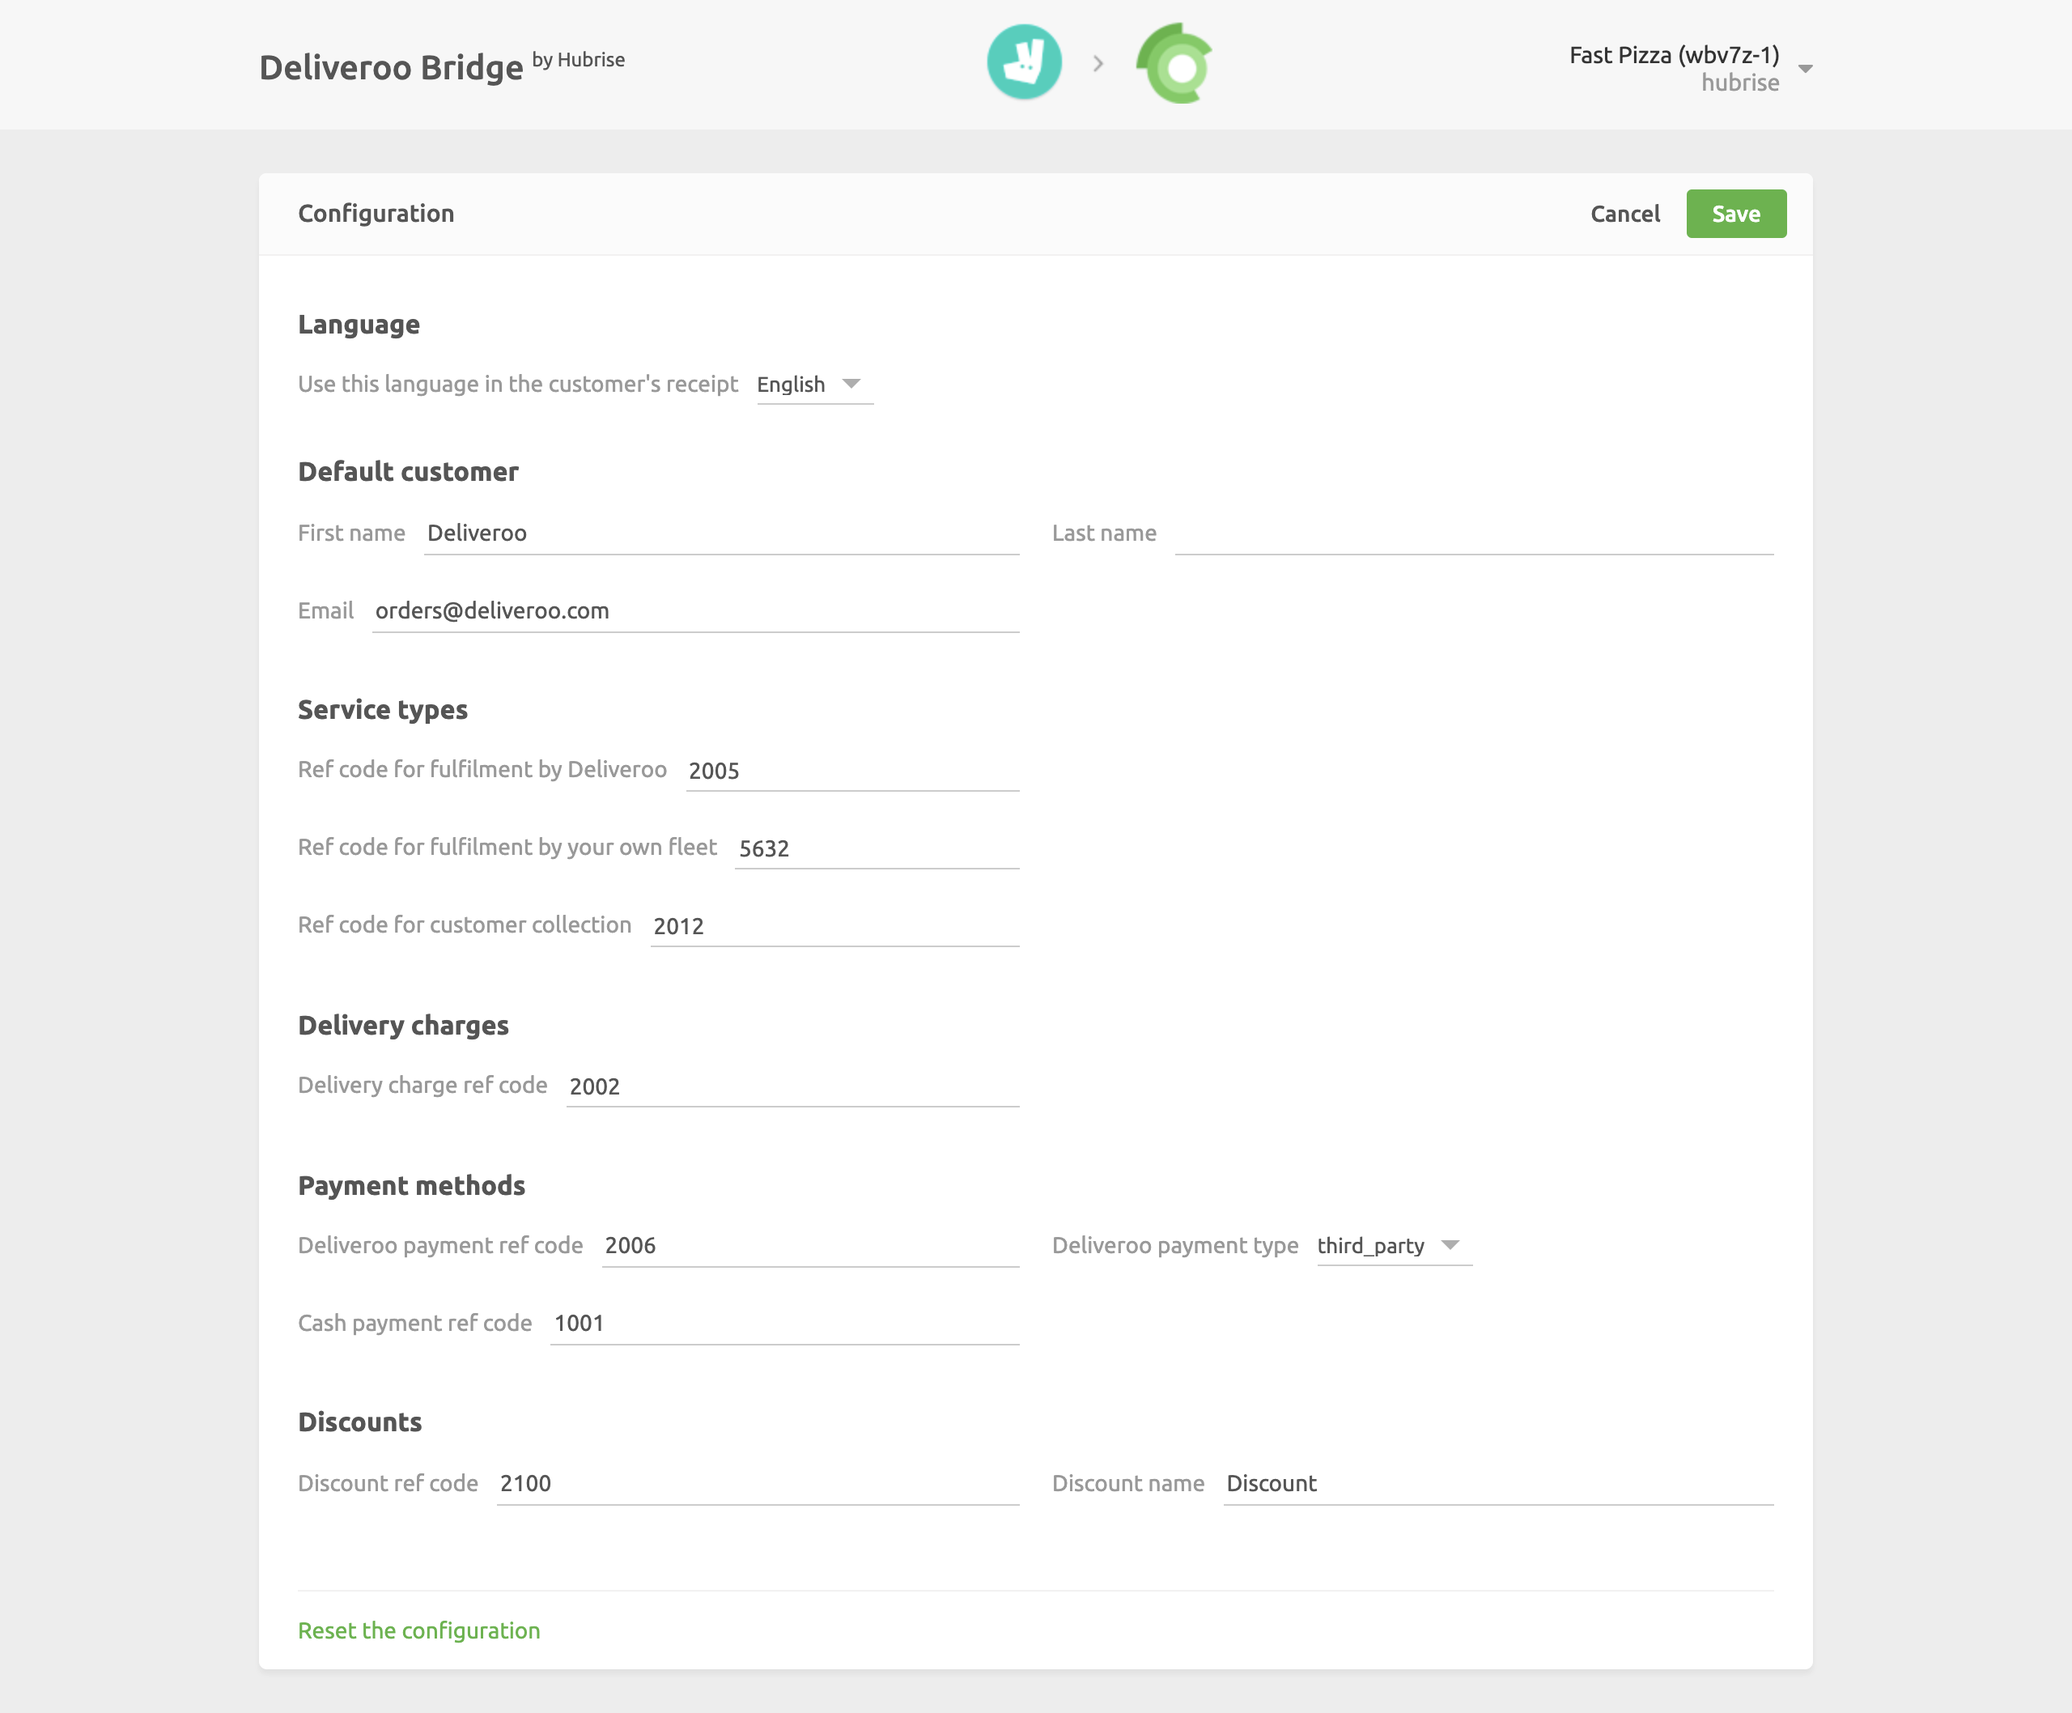
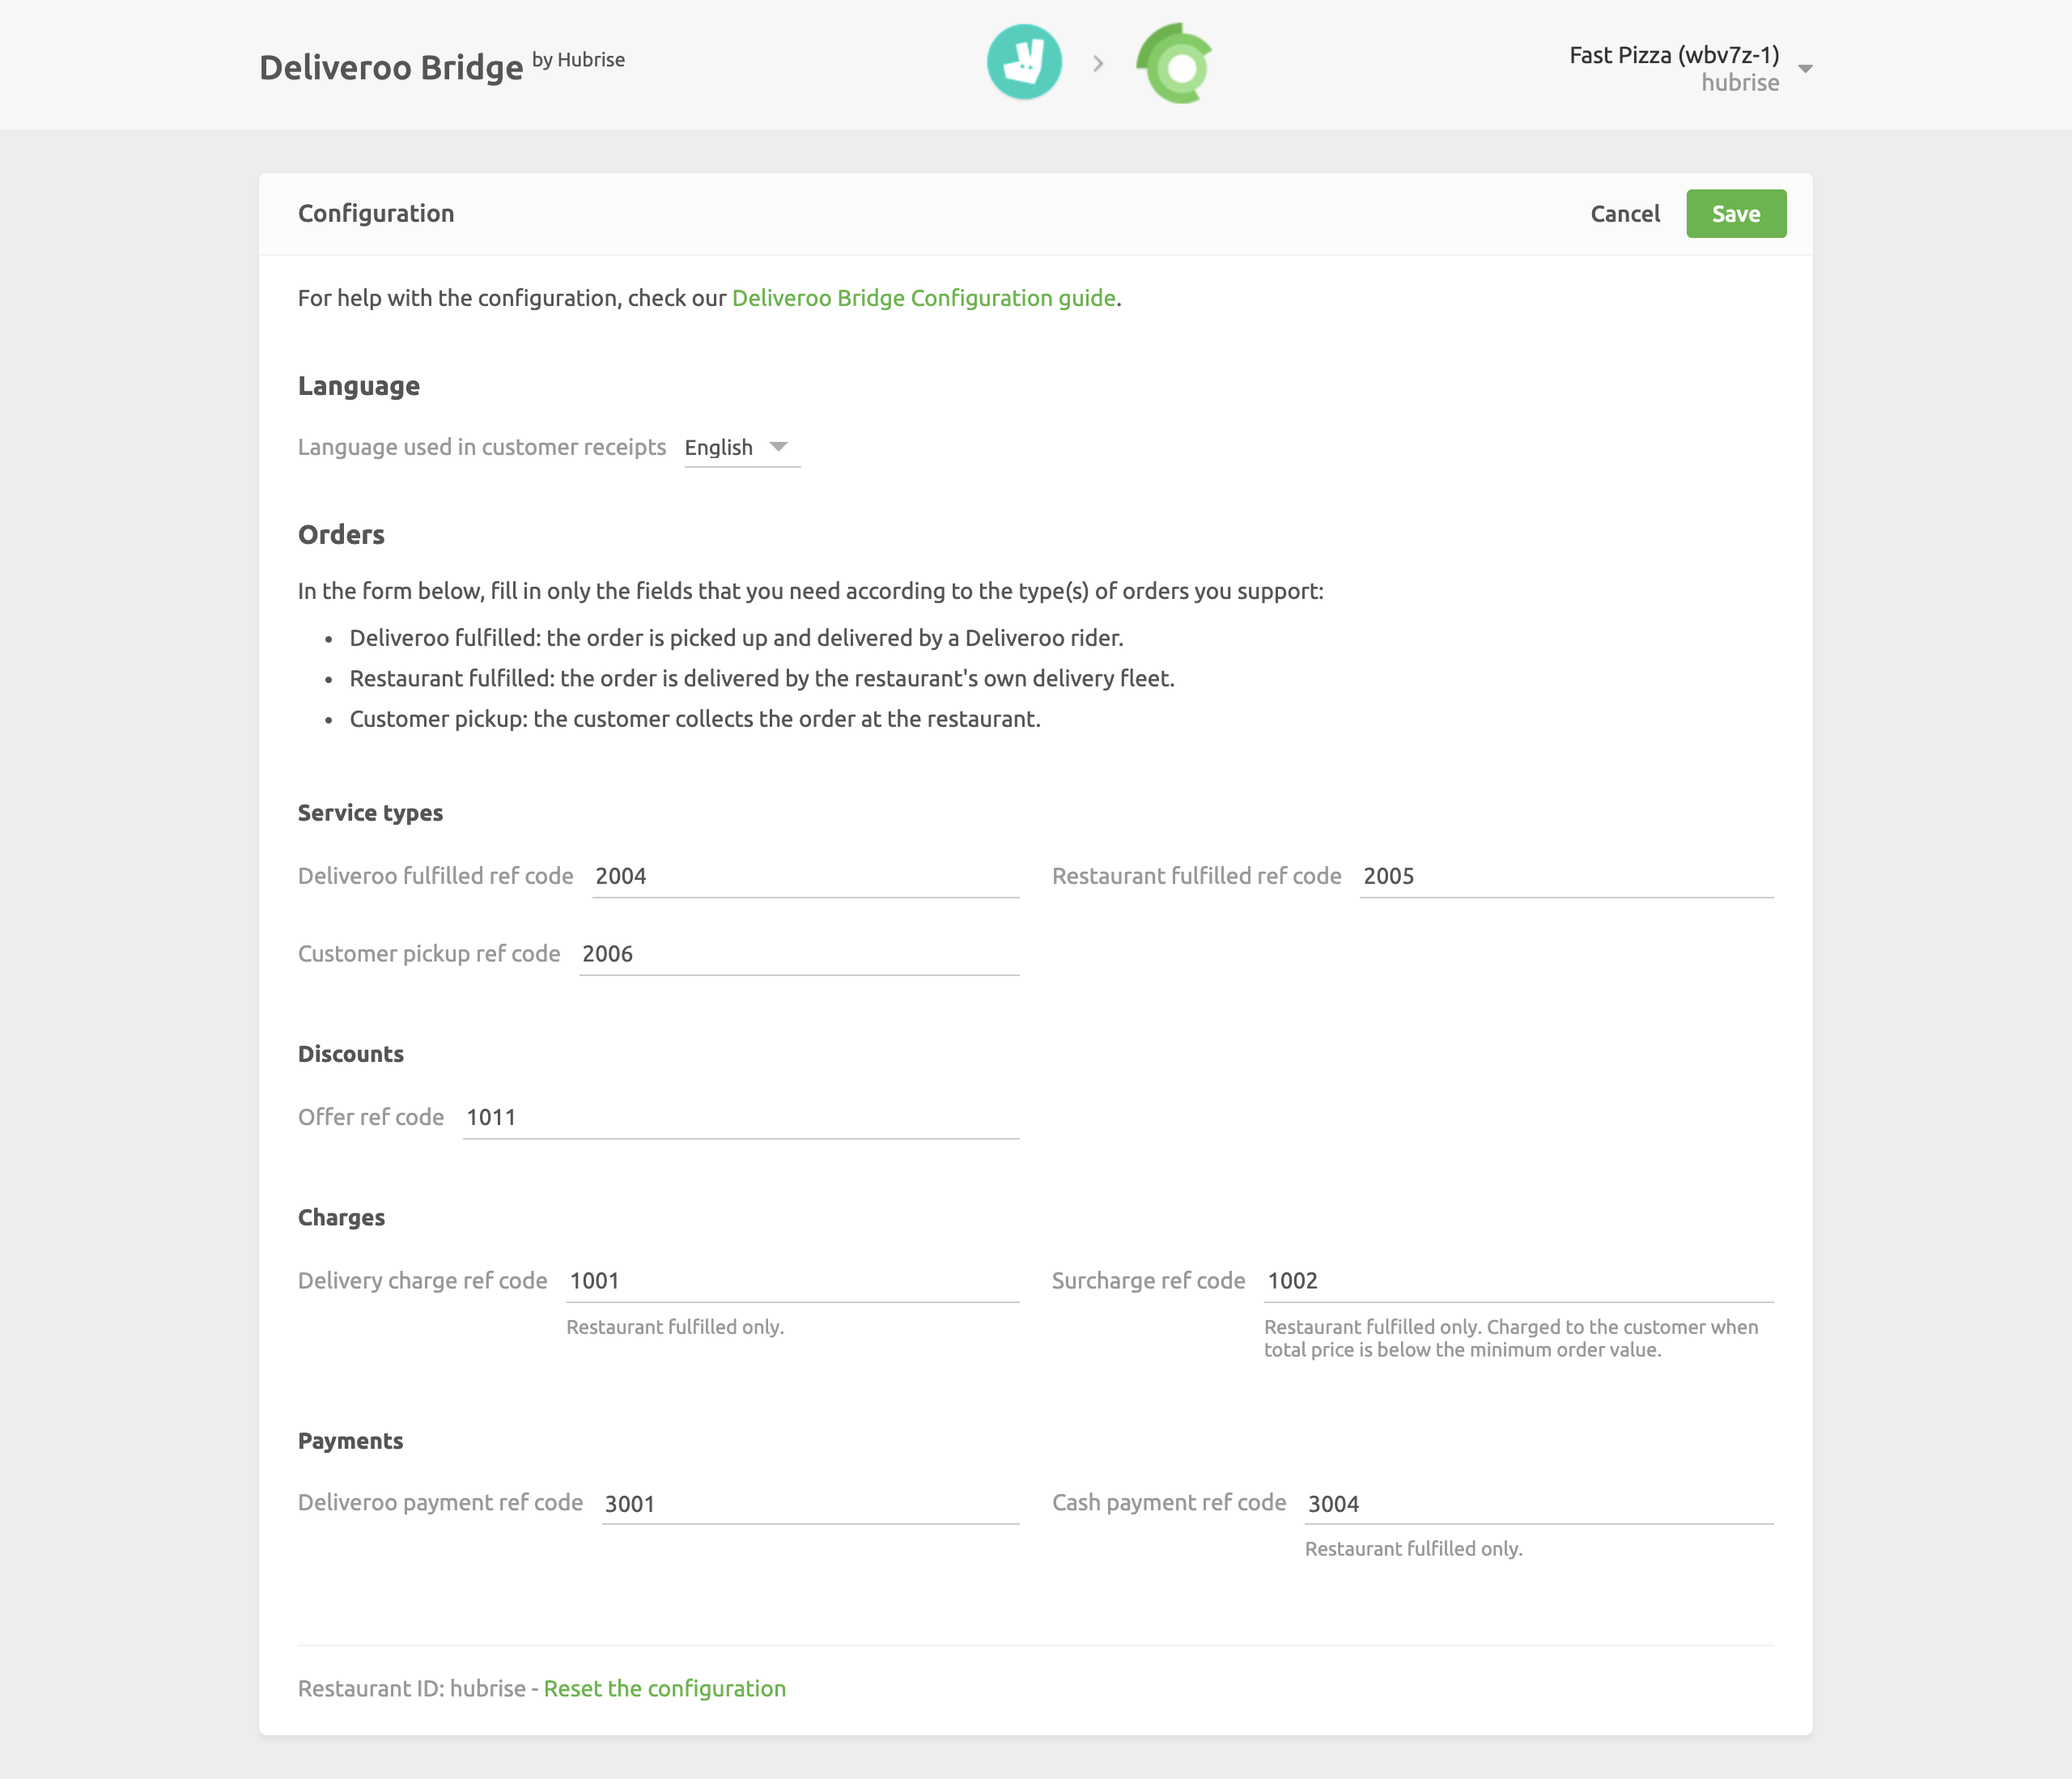
Deliveroo: Update docs
- Update configuration page to new UI
- Add screenshot of Offer
- Add available fields in Deliveroo Bridge (see #231)

Closes #213

diff --git a/content/apps/deliveroo/technical-details/en/receiving-orders.md b/content/apps/deliveroo/technical-details/en/receiving-orders.md
@@ -1,0 +1,137 @@
+---
+title: Receiving Orders
+position: 1
+layout: documentation
+meta:
+  title: Receiving Orders - Deliveroo
+  description: Find out the technical details of how orders are sent from Deliveroo to HubRise, which fields are passed and which are not.
+---
+
+Connecting Deliveroo to HubRise allows you to receive Deliveroo orders directly in your EPOS.
+This page describes the information that is passed by Deliveroo Bridge for the orders you receive.
+
+## Items and Options
+
+Deliveroo never provides the products and options names in their API.
+This means that products and options in a Deliveroo order can only be identified by their ref code.
+
+Therefore, your EPOS solution should not rely on product and option names to parse the incoming orders.
+Also, make sure that products and options in your Deliveroo menu are mapped to the correct EPOS ref code. For more details, see [Map Ref Codes](/apps/deliveroo/map-ref-codes).
+
+Customers' comments on single products are not provided by Deliveroo API. If you rely on these comments for cooking or serving instructions (for example, "Medium rare cooking", or "Cut in slices"), you should add the corresponding items in your EPOS and include them as options in the Deliveroo menu, so that they are correctly encoded.
+
+### Items Encoding
+
+For every item in the order, Deliveroo Bridge provides the following information:
+
+- `sku_ref`: The ref code of the item
+- `product_name`: The placeholder for the product name, in the format "Product `sku_ref`"
+- `price`: The price for a single item
+- `quantity`: The quantity of items included in the order.
+- `options`: The array of options attached to the item.
+
+### Options Encoding
+
+For every option in the order, Deliveroo Bridge provides the following information:
+
+- `option_list_name`: The default value is "Options"
+- `ref`: The ref code of the option
+- `name`: The placeholder for the option name, in the format "Option `sku_ref`"
+- `price`: The price for a single item
+
+Every option has single quantity. Multiple identical options are encoded in separate option objects.
+
+## Order Statuses
+
+A Deliveroo order goes through several statuses during its lifecycle.
+
+Changes to the order status originating from Deliveroo are reflected in HubRise in the following way:
+
+- New orders are created on HubRise with status `new`.
+- When an order is cancelled on Deliveroo, it is automatically marked as `cancelled` on HubRise.
+
+When an order status changes on HubRise, Deliveroo Bridge notifies Deliveroo and the change is reflected in the tablet. The supported status values are the following:
+
+- `accepted`: The order has been accepted by the EPOS, and is confirmed on Deliveroo.
+- `in_preparation`: The order is in the kitchen.
+- `awaiting_collection`: The order is ready for pickup by the customer or the rider.
+- `completed`: The order has been collected by the customer or the rider.
+
+Other HubRise status values are not supported and are not sent on Deliveroo.
+
+## Service Types
+
+Deliveroo supports three service types:
+
+- Delivery by Deliveroo riders
+- Delivery by the restaurant's fleet
+- Customer collection
+
+These are typically associated with specific ref codes in your EPOS. For more information, see your EPOS documentation in our [apps page](/apps).
+
+## Customer Details
+
+Deliveroo never provides the customer's full name and email address in their API. It only provides the customer's address for orders delivered by the restaurant.
+
+Therefore, Deliveroo Bridge never creates customers in HubRise for Deliveroo orders, but always includes the customer's details directly in the order.
+
+### Customer Name and Email
+
+Customer's name and email for Deliveroo orders have these default values for all types of orders:
+
+- `first_name`: Deliveroo
+- `last_name`: Order
+- `email`: orders@deliveroo.com
+
+### Customer Address
+
+For restaurant fulfilled orders only, Deliveroo Bridge retrieves the following information from Deliveroo:
+
+- `address_1`: The first line of the address.
+- `address_2`: The second line of the address.
+- `city`: The city of the address.
+- `postal_code`: The postcode of the address.
+- `latitude`: The latitude of the address.
+- `longitude`: The longitude of the address.
+- `phone`: Deliveroo support number. Note: This is not the customer's phone number.
+- `delivery_notes`: The access code to identify the order when calling Deliveroo support and the delivery notes left by the customer, in the format "Phone access code: `access_code`. `note`".
+
+## Discounts
+
+The discount applied to the order is passed in a single object in the HubRise `discounts` array.
+
+The available fields in the payload are the following:
+
+- `name`: The name of the discount, which is "Discount" by default.
+- `ref`: The ref code of the discount. Its default value can be set from the Configuration page of Deliveroo Bridge and should match the value in your EPOS.
+- `price_off`: The total amount of the discount.
+
+## Charges
+
+Deliveroo Bridge encodes two types of charges: Delivery charges, and small order surcharges.
+
+### Delivery Charges
+
+Delivery charges are applied for orders delivered by the restaurant.
+
+The available fields in the payloads are the following:
+
+- `name`: The name of the delivery charge, which is "Delivery charge" by default.
+- `type`: The type of charge. It has always the value `delivery`.
+- `ref`: The ref code of the charge. Its default value can be set from the Configuration page of Deliveroo Bridge and should match the value in your EPOS.
+- `price`: The total amount of the delivery charge.
+
+### Small Order Surcharges
+
+Small order surcharges, applied when the total price for an order is below the minimum order price.
+
+The available fields in the payloads are the following:
+
+- `name`: The name of the charge, which is "Surcharge" by default.
+- `type`: The type of charge. It has always the value `other`.
+- `ref`: The ref code of the charge. Its default value can be set from the Configuration page of Deliveroo Bridge and should match the value in your EPOS.
+- `price`: The total amount of the small order surcharge.
+
+## Customers' Notes
+
+Customers' notes about the order are encoded in the `customer_notes` field.

diff --git a/content/apps/deliveroo/en/configuration.md b/content/apps/deliveroo/en/configuration.md
@@ -16,29 +16,29 @@ These are divided into different categories for an easier navigation.
 
 From this section, you can decide which language will be used to encode the order item names in your receipts.
 
-## Default Customer
-
-By default, Deliveroo does not encode the customer's details when they send an order to HubRise. However, certain EPOS systems require a customer to be specified in every order.
-
-This section allows you to define the default first name, last name and email address that will be used for all your Deliveroo orders.
-
 ## Service Types
 
 Service types such as Delivery by Deliveroo, Delivery by your own fleet or Collection might require the corresponding ref code entry. Refer to your connected EPOS documentation on the HubRise website to verify.
 
-## Delivery Charges
-
-If delivery charges apply, a ref code might be required. Refer to your connected EPOS documentation on the HubRise website to verify.
-
-## Payment Methods
-
-Deliveroo customers can pay for their order either online or by cash on delivery.
-
-This section of the configuration page allows you to specify the ref codes for these two payment methods, together with the payment type associated with online payments on the Deliveroo web site. Cash payments are always associated with the `cash` type.
-
 ## Discounts
 
-This section allows you to specify the discount name and ref code applied to your products, in case you have one active on your Deliveroo page.
+This section allows you to specify the discount ref code applied to your products, in case you have one active on your Deliveroo page.
+
+Available discounts on Deliveroo appear in the **All offers** page in your Deliveroo back office.
+
+![Example of all offers page in Deliveroo back office](../images/013-en-deliveroo-offer.png)
+
+## Charges
+
+If charges apply, a ref code might be required. Refer to your connected EPOS documentation on the HubRise website to verify.
+
+In this section, you can specify the ref code for delivery charges, and for surcharges applied to orders below the minimum price.
+
+## Payments
+
+Deliveroo customers can pay for their order either online or by cash on delivery for restaurant fulfilled orders.
+
+This section of the configuration page allows you to specify the ref codes for these two payment methods. Refer to your connected EPOS documentation on the HubRise website to verify the correct codes to use.
 
 ## Saving the Configuration
 

diff --git a/content/apps/deliveroo/en/technical-details.md b/content/apps/deliveroo/en/technical-details.md
@@ -1,0 +1,10 @@
+---
+title: Technical Details
+position: 8
+layout: documentation
+meta:
+  title: Technical Details - Deliveroo
+  description: Technical details and advanced information about the Deliveroo integration with HubRise.
+---
+
+- <Link to="/apps/deliveroo/technical-details/receiving-orders/">Receiving Orders</Link>
